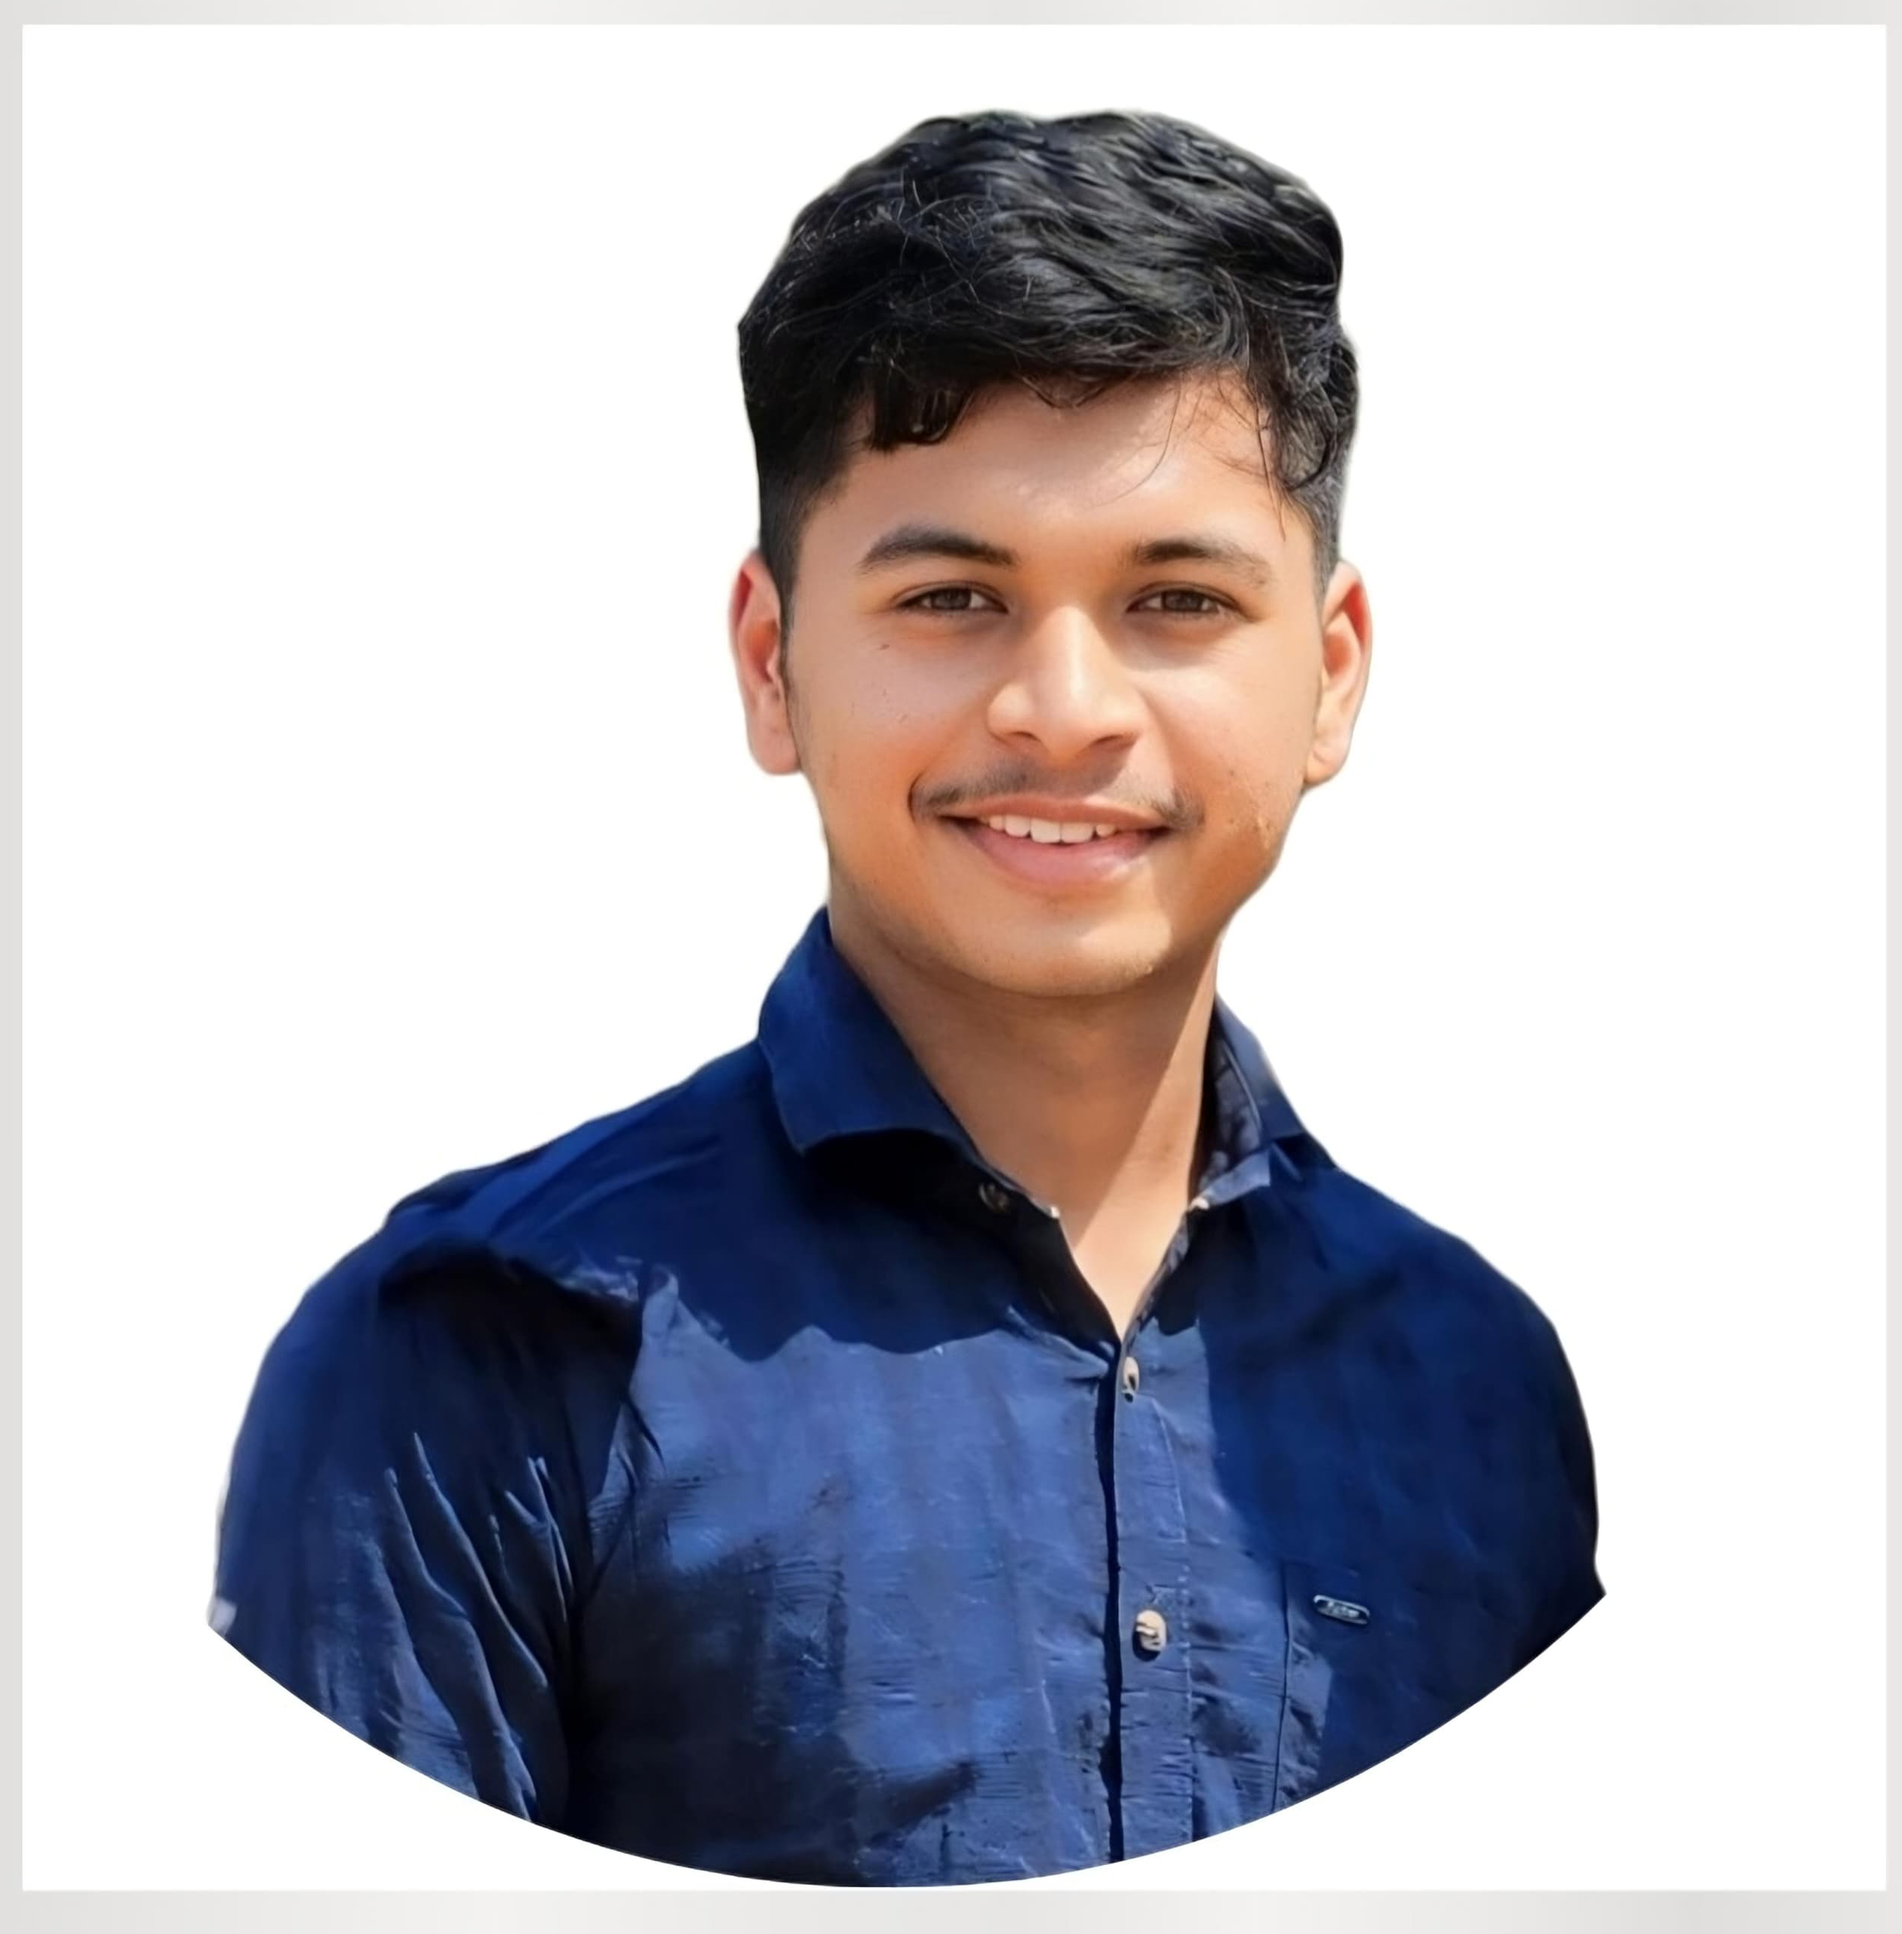
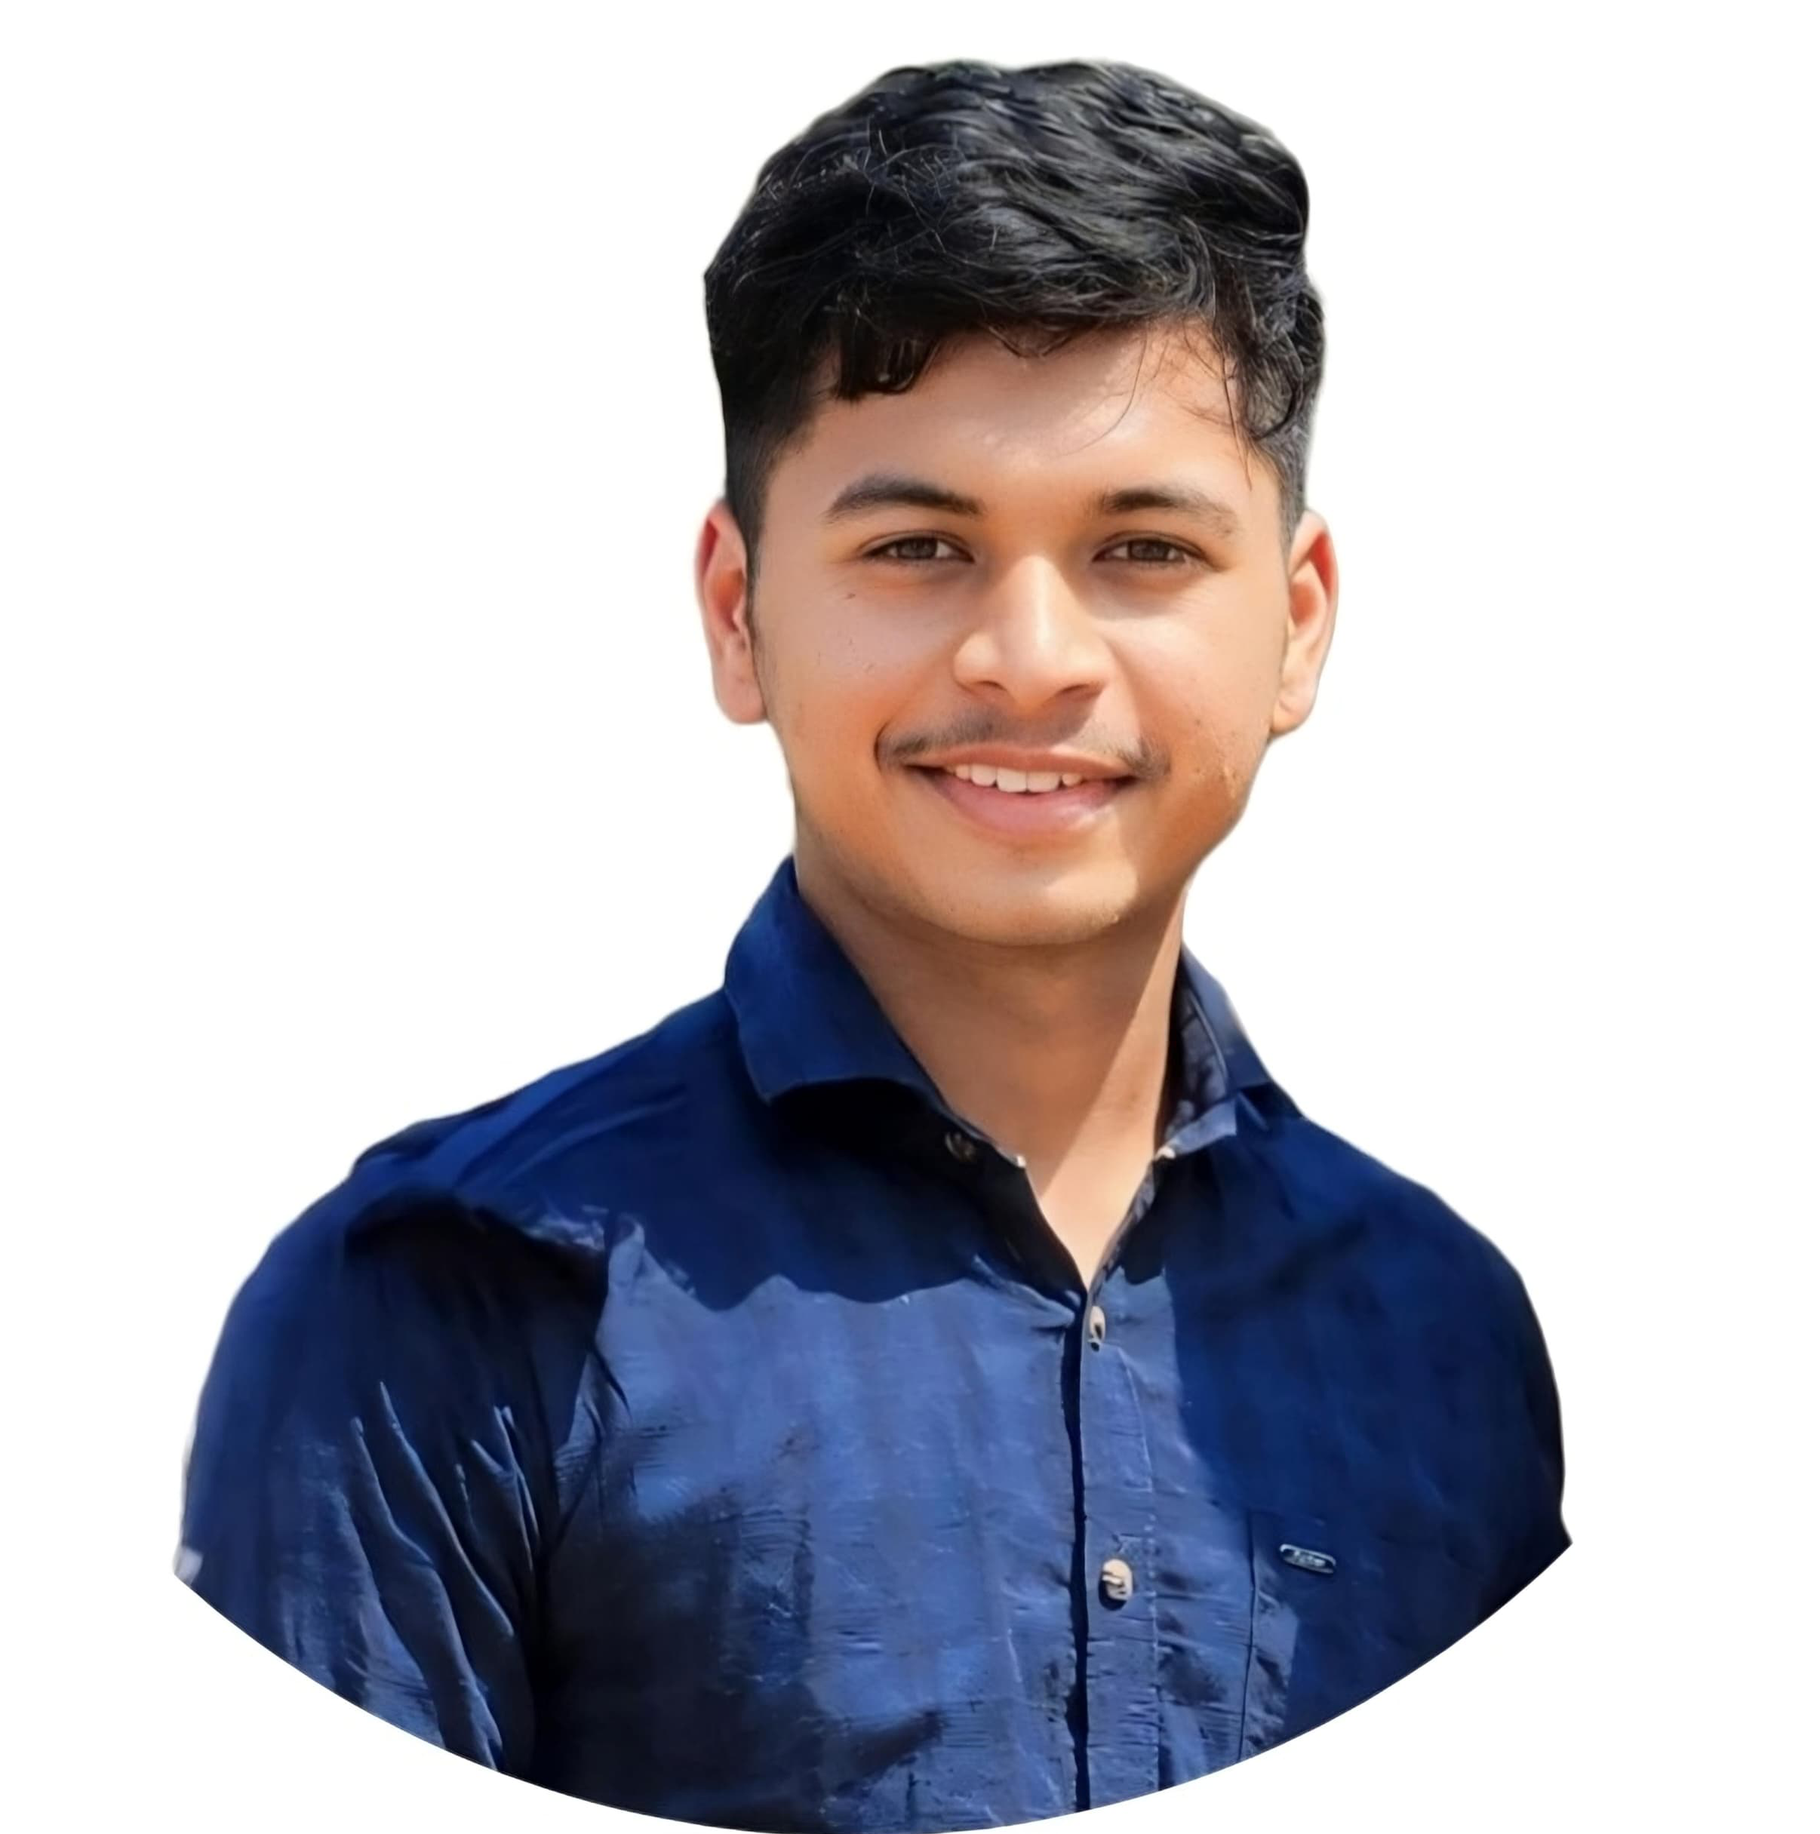
projects section

diff --git a/src/pages/Projects.jsx b/src/pages/Projects.jsx
@@ -1,7 +1,74 @@
 import React from "react";
+import ecom from "../assets/profile/projects/ecom.jpg";
+import estate from "../assets/profile/projects/estate.png";
+import movies from "../assets/profile/projects/movies.png";
+import notes from "../assets/profile/projects/notes.png";
+import weather from "../assets/profile/projects/weather.jpg";
+import blog from "../assets/profile/projects/blog.jpg";
+
+const projects = [
+  {
+    id: 1,
+    title: "Blog Platform",
+    image: blog,
+    link: "https://mern-blog-app-qpoe.onrender.com/signin",
+  },
+  {
+    id: 2,
+    title: "Movies App",
+    image: movies,
+    link: "https://next-movie-app-sable-three.vercel.app/",
+  },
+  {
+    id: 3,
+    title: "Real Estate",
+    image: estate,
+    link: "https://mern-estate-16o5.onrender.com/",
+  },
+  { id: 4, title: "Notes App", image: notes, link: "#" }, // Replace # with the actual link when available
+  {
+    id: 5,
+    title: "E-commerce",
+    image: ecom,
+    link: "https://ecommerce-mern-eight-orcin.vercel.app/",
+  },
+  { id: 6, title: "Weather App", image: weather, link: "#" }, // Replace # with the actual link when available
+];
 
 const Projects = () => {
-  return <div>Projects</div>;
+  const handleClick = (link) => {
+    window.open(link, "_blank");
+  };
+
+  return (
+    <section id="projects" className="py-16 bg-gray-100 dark:bg-dark">
+      <div className="container mx-auto px-4">
+        <h2 className="text-3xl font-bold text-center mb-8 text-dark dark:text-light">
+          Projects
+        </h2>
+        <div className="grid grid-cols-1 sm:grid-cols-2 md:grid-cols-3 gap-8">
+          {projects.map((project) => (
+            <div
+              key={project.id}
+              className="bg-white dark:bg-gray-800 shadow-md rounded-lg overflow-hidden cursor-pointer"
+              onClick={() => handleClick(project.link)}
+            >
+              <img
+                src={project.image}
+                alt={project.title}
+                className="w-full h-48 object-cover"
+              />
+              <div className="p-4">
+                <h3 className="text-xl font-semibold text-dark dark:text-light">
+                  {project.title}
+                </h3>
+              </div>
+            </div>
+          ))}
+        </div>
+      </div>
+    </section>
+  );
 };
 
 export default Projects;

diff --git a/src/pages/Home.jsx b/src/pages/Home.jsx
@@ -25,7 +25,11 @@ const Home = () => {
       <div className="layout p-0">
         <div className="flex items-center justify-between w-full bg-slate-300 dark:bg-slate-800">
           <div className="w-1/2">
-            <img src={profilePic} alt="Mahesh" className="w-full px-20" />
+            <img
+              src={profilePic}
+              alt="Mahesh"
+              className="w-full px-20 bg-slate-300 dark:bg-slate-800"
+            />
           </div>
           <div className="w-1/2 flex flex-col items-center self-center">
             <AnimatedText
